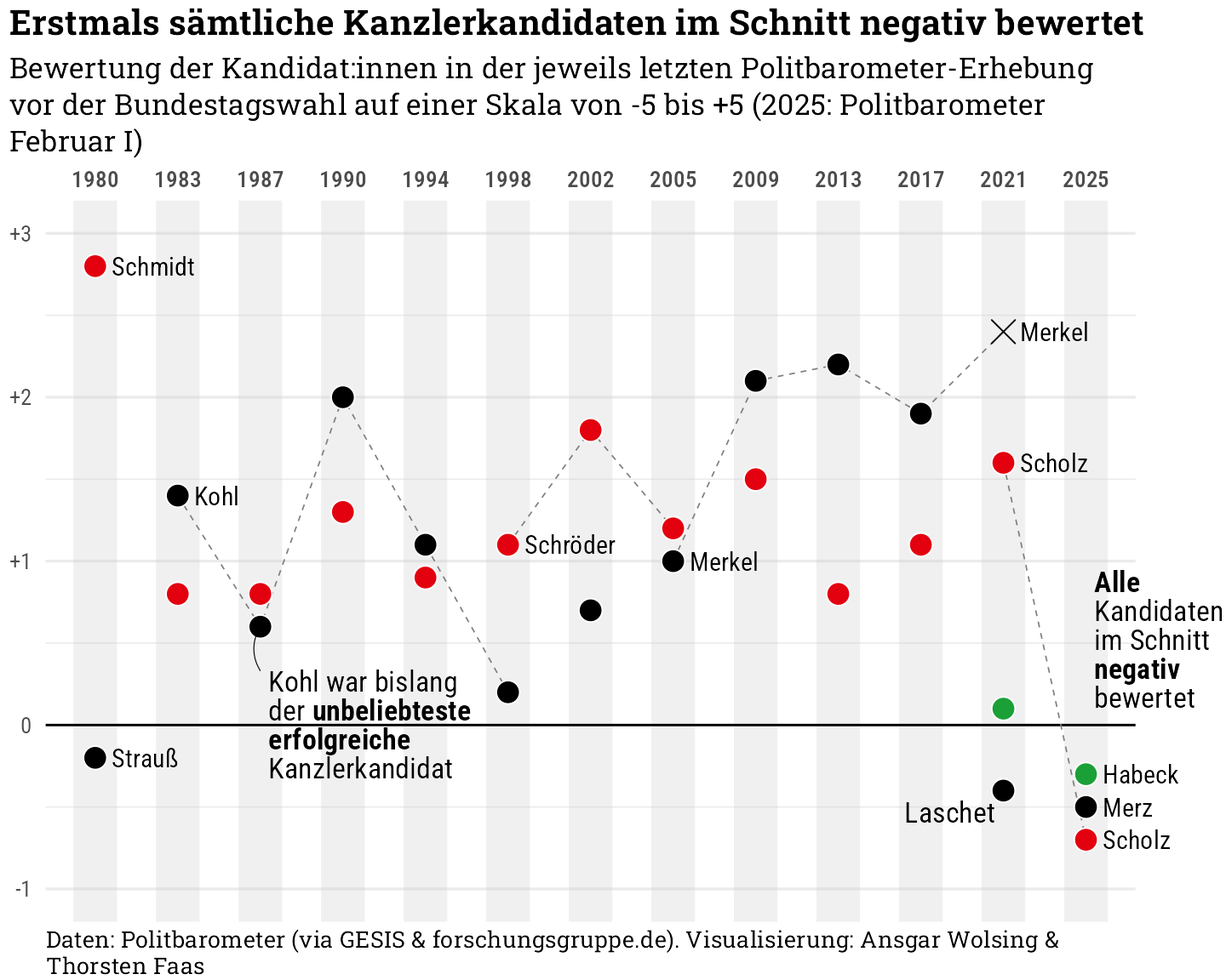
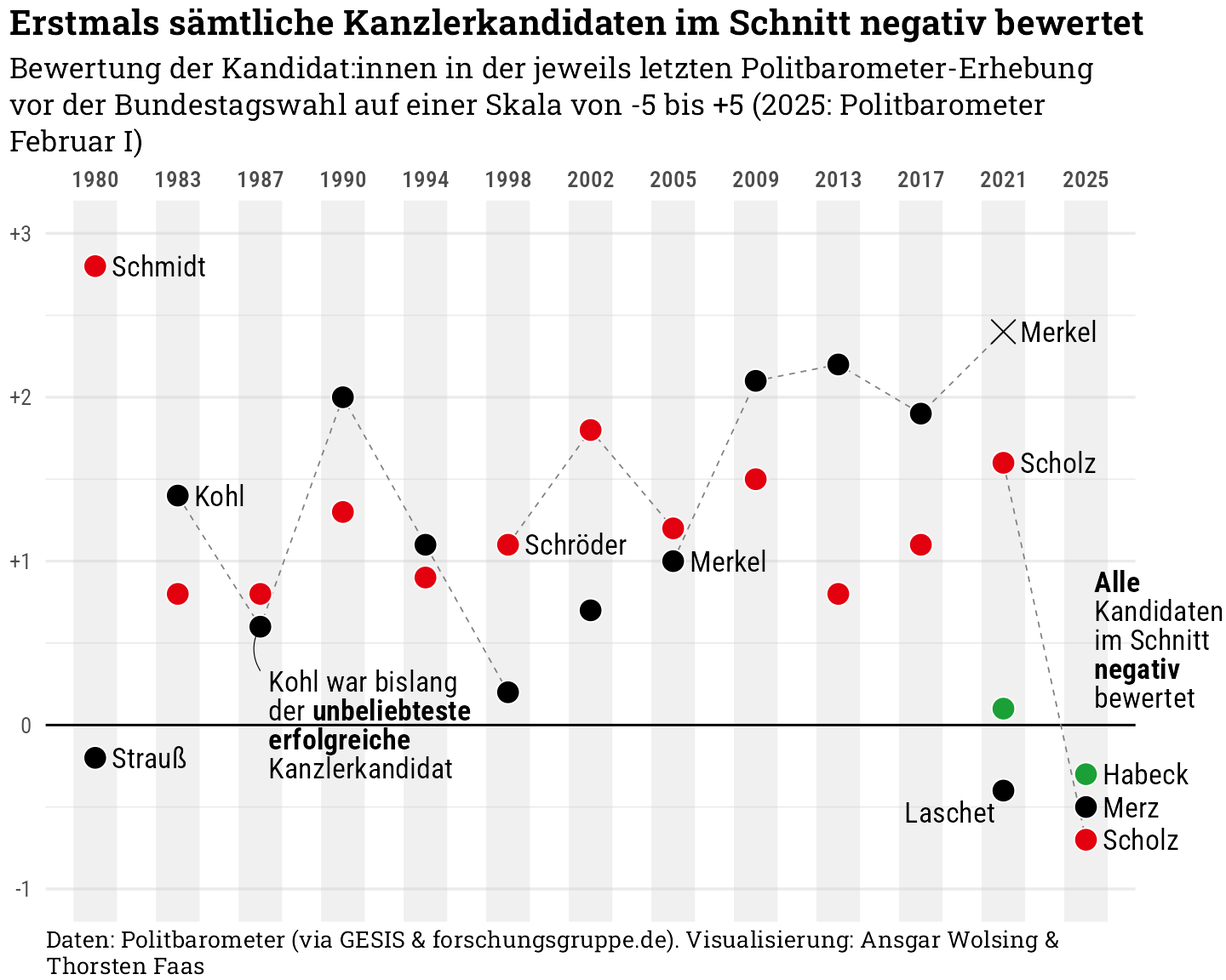
Hinweis auf nicht im Chart erwähnte Kandidaten

diff --git a/06-tv-duell/05-tv-duell.html b/06-tv-duell/05-tv-duell.html
@@ -191,7 +191,7 @@ pre > code.sourceCode > span > a:first-child::before { text-decoration: underlin
 <span id="cb4-27"><a href="#cb4-27" aria-hidden="true" tabindex="-1"></a>                   kandidat <span class="sc">==</span> <span class="st">"Merz"</span></span>
 <span id="cb4-28"><a href="#cb4-28" aria-hidden="true" tabindex="-1"></a>                   ),</span>
 <span id="cb4-29"><a href="#cb4-29" aria-hidden="true" tabindex="-1"></a>    <span class="fu">aes</span>(<span class="at">label =</span> kandidat),</span>
-<span id="cb4-30"><a href="#cb4-30" aria-hidden="true" tabindex="-1"></a>    <span class="at">family =</span> <span class="st">"Roboto Condensed"</span>, <span class="at">size =</span> <span class="dv">4</span>, <span class="at">hjust =</span> <span class="dv">0</span>, <span class="at">nudge_x =</span> <span class="fl">0.2</span></span>
+<span id="cb4-30"><a href="#cb4-30" aria-hidden="true" tabindex="-1"></a>    <span class="at">family =</span> <span class="st">"Roboto Condensed"</span>, <span class="at">size =</span> annotation_size, <span class="at">hjust =</span> <span class="dv">0</span>, <span class="at">nudge_x =</span> <span class="fl">0.2</span></span>
 <span id="cb4-31"><a href="#cb4-31" aria-hidden="true" tabindex="-1"></a>  ) <span class="sc">+</span></span>
 <span id="cb4-32"><a href="#cb4-32" aria-hidden="true" tabindex="-1"></a>  <span class="fu">annotate</span>(</span>
 <span id="cb4-33"><a href="#cb4-33" aria-hidden="true" tabindex="-1"></a>    <span class="st">"richtext"</span>,</span>
@@ -244,70 +244,172 @@ pre > code.sourceCode > span > a:first-child::before { text-decoration: underlin
 </div>
 </div>
 </div>
+<section id="variante-mit-vollständigen-kandidatennennung-in-fußnote" class="level5">
+<h5 class="anchored" data-anchor-id="variante-mit-vollständigen-kandidatennennung-in-fußnote">Variante mit vollständigen Kandidatennennung in Fußnote</h5>
+<div class="cell">
+<details class="code-fold">
+<summary>Code</summary>
+<div class="sourceCode cell-code" id="cb5"><pre class="sourceCode r code-with-copy"><code class="sourceCode r"><span id="cb5-1"><a href="#cb5-1" aria-hidden="true" tabindex="-1"></a>annotation_size <span class="ot">&lt;-</span> <span class="fl">4.5</span></span>
+<span id="cb5-2"><a href="#cb5-2" aria-hidden="true" tabindex="-1"></a></span>
+<span id="cb5-3"><a href="#cb5-3" aria-hidden="true" tabindex="-1"></a>kandidaten_hinweis <span class="ot">&lt;-</span> df_skalo <span class="sc">|&gt;</span> </span>
+<span id="cb5-4"><a href="#cb5-4" aria-hidden="true" tabindex="-1"></a>  <span class="fu">filter</span>(<span class="sc">!</span>kandidat <span class="sc">%in%</span> <span class="fu">c</span>(<span class="st">"Merkel"</span>, <span class="st">"Schröder"</span>, <span class="st">"Schmidt"</span>, <span class="st">"Kohl"</span>, <span class="st">"Merz"</span>, <span class="st">"Scholz"</span>, </span>
+<span id="cb5-5"><a href="#cb5-5" aria-hidden="true" tabindex="-1"></a>                          <span class="st">"Baerbock"</span>, <span class="st">"Habeck"</span>, <span class="st">"Laschet"</span>, <span class="st">"Strauß"</span>)) <span class="sc">|&gt;</span> </span>
+<span id="cb5-6"><a href="#cb5-6" aria-hidden="true" tabindex="-1"></a>  <span class="fu">transmute</span>(<span class="at">wahl_kandidat_label =</span> <span class="fu">paste</span>(wahl, kandidat, <span class="at">sep =</span> <span class="st">" "</span>))</span>
+<span id="cb5-7"><a href="#cb5-7" aria-hidden="true" tabindex="-1"></a></span>
+<span id="cb5-8"><a href="#cb5-8" aria-hidden="true" tabindex="-1"></a>df_skalo <span class="sc">|&gt;</span> </span>
+<span id="cb5-9"><a href="#cb5-9" aria-hidden="true" tabindex="-1"></a>  <span class="fu">filter</span>(<span class="sc">!</span>(wahl <span class="sc">==</span> <span class="dv">2021</span> <span class="sc">&amp;</span> kandidat <span class="sc">==</span> <span class="st">"Merkel"</span>)) <span class="sc">|&gt;</span> </span>
+<span id="cb5-10"><a href="#cb5-10" aria-hidden="true" tabindex="-1"></a>  <span class="fu">mutate</span>(<span class="at">wahl_fct =</span> <span class="fu">factor</span>(wahl)) <span class="sc">|&gt;</span> </span>
+<span id="cb5-11"><a href="#cb5-11" aria-hidden="true" tabindex="-1"></a>  <span class="fu">ggplot</span>(<span class="fu">aes</span>(wahl_fct, bewertung, <span class="at">fill =</span> partei)) <span class="sc">+</span></span>
+<span id="cb5-12"><a href="#cb5-12" aria-hidden="true" tabindex="-1"></a>  <span class="fu">geom_vline</span>(</span>
+<span id="cb5-13"><a href="#cb5-13" aria-hidden="true" tabindex="-1"></a>    <span class="fu">aes</span>(<span class="at">xintercept =</span> wahl_fct), </span>
+<span id="cb5-14"><a href="#cb5-14" aria-hidden="true" tabindex="-1"></a>    <span class="at">linewidth =</span> <span class="dv">9</span>, <span class="at">color =</span> <span class="fu">alpha</span>(<span class="st">"grey80"</span>, <span class="fl">0.3</span>)) <span class="sc">+</span></span>
+<span id="cb5-15"><a href="#cb5-15" aria-hidden="true" tabindex="-1"></a>  <span class="fu">geom_hline</span>(<span class="fu">aes</span>(<span class="at">yintercept =</span> <span class="dv">0</span>), <span class="at">linewidth =</span> <span class="fl">0.5</span>) <span class="sc">+</span></span>
+<span id="cb5-16"><a href="#cb5-16" aria-hidden="true" tabindex="-1"></a>  <span class="fu">geom_line</span>(</span>
+<span id="cb5-17"><a href="#cb5-17" aria-hidden="true" tabindex="-1"></a>    <span class="fu">aes</span>(<span class="at">group =</span> kandidat),</span>
+<span id="cb5-18"><a href="#cb5-18" aria-hidden="true" tabindex="-1"></a>    <span class="at">linetype =</span> <span class="st">"dashed"</span>, <span class="at">linewidth =</span> <span class="fl">0.3</span>, <span class="at">col =</span> <span class="st">"grey50"</span></span>
+<span id="cb5-19"><a href="#cb5-19" aria-hidden="true" tabindex="-1"></a>  ) <span class="sc">+</span></span>
+<span id="cb5-20"><a href="#cb5-20" aria-hidden="true" tabindex="-1"></a>  <span class="fu">geom_point</span>(</span>
+<span id="cb5-21"><a href="#cb5-21" aria-hidden="true" tabindex="-1"></a>    <span class="fu">aes</span>(</span>
+<span id="cb5-22"><a href="#cb5-22" aria-hidden="true" tabindex="-1"></a>      <span class="at">shape =</span> <span class="fu">ifelse</span>(kandidat <span class="sc">==</span> <span class="st">"Merkel"</span> <span class="sc">&amp;</span> wahl <span class="sc">==</span> <span class="st">"2021"</span>, <span class="dv">4</span>, <span class="dv">21</span>),</span>
+<span id="cb5-23"><a href="#cb5-23" aria-hidden="true" tabindex="-1"></a>      <span class="at">col =</span> <span class="fu">ifelse</span>(kandidat <span class="sc">==</span> <span class="st">"Merkel"</span> <span class="sc">&amp;</span> wahl <span class="sc">==</span> <span class="st">"2021"</span>, <span class="st">"black"</span>, <span class="st">"white"</span>)),</span>
+<span id="cb5-24"><a href="#cb5-24" aria-hidden="true" tabindex="-1"></a>    <span class="at">size =</span> annotation_size) <span class="sc">+</span></span>
+<span id="cb5-25"><a href="#cb5-25" aria-hidden="true" tabindex="-1"></a>  <span class="fu">geom_text</span>(</span>
+<span id="cb5-26"><a href="#cb5-26" aria-hidden="true" tabindex="-1"></a>    <span class="at">data =</span> <span class="sc">~</span><span class="fu">filter</span>(.,</span>
+<span id="cb5-27"><a href="#cb5-27" aria-hidden="true" tabindex="-1"></a>                   wahl <span class="sc">%in%</span> <span class="fu">c</span>(<span class="dv">2005</span>, <span class="dv">2021</span>) <span class="sc">&amp;</span> kandidat <span class="sc">==</span> <span class="st">"Merkel"</span> <span class="sc">|</span></span>
+<span id="cb5-28"><a href="#cb5-28" aria-hidden="true" tabindex="-1"></a>                   wahl <span class="sc">==</span> <span class="dv">1980</span> <span class="sc">|</span></span>
+<span id="cb5-29"><a href="#cb5-29" aria-hidden="true" tabindex="-1"></a>                   wahl <span class="sc">==</span> <span class="dv">1983</span> <span class="sc">&amp;</span> kandidat <span class="sc">==</span> <span class="st">"Kohl"</span> <span class="sc">|</span></span>
+<span id="cb5-30"><a href="#cb5-30" aria-hidden="true" tabindex="-1"></a>                   wahl <span class="sc">==</span> <span class="dv">1998</span> <span class="sc">&amp;</span> kandidat <span class="sc">==</span> <span class="st">"Schröder"</span> <span class="sc">|</span></span>
+<span id="cb5-31"><a href="#cb5-31" aria-hidden="true" tabindex="-1"></a>                   kandidat <span class="sc">==</span> <span class="st">"Scholz"</span> <span class="sc">|</span></span>
+<span id="cb5-32"><a href="#cb5-32" aria-hidden="true" tabindex="-1"></a>                   kandidat <span class="sc">==</span> <span class="st">"Habeck"</span> <span class="sc">|</span></span>
+<span id="cb5-33"><a href="#cb5-33" aria-hidden="true" tabindex="-1"></a>                   kandidat <span class="sc">==</span> <span class="st">"Merz"</span></span>
+<span id="cb5-34"><a href="#cb5-34" aria-hidden="true" tabindex="-1"></a>                   ),</span>
+<span id="cb5-35"><a href="#cb5-35" aria-hidden="true" tabindex="-1"></a>    <span class="fu">aes</span>(<span class="at">label =</span> kandidat),</span>
+<span id="cb5-36"><a href="#cb5-36" aria-hidden="true" tabindex="-1"></a>    <span class="at">family =</span> <span class="st">"Roboto Condensed"</span>, <span class="at">size =</span> annotation_size, <span class="at">hjust =</span> <span class="dv">0</span>, <span class="at">nudge_x =</span> <span class="fl">0.2</span></span>
+<span id="cb5-37"><a href="#cb5-37" aria-hidden="true" tabindex="-1"></a>  ) <span class="sc">+</span></span>
+<span id="cb5-38"><a href="#cb5-38" aria-hidden="true" tabindex="-1"></a>  <span class="fu">annotate</span>(</span>
+<span id="cb5-39"><a href="#cb5-39" aria-hidden="true" tabindex="-1"></a>    <span class="st">"richtext"</span>,</span>
+<span id="cb5-40"><a href="#cb5-40" aria-hidden="true" tabindex="-1"></a>    <span class="at">x =</span> <span class="fu">c</span>(<span class="st">"1987"</span>, <span class="st">"2021"</span>, <span class="st">"2025"</span>, <span class="st">"2021"</span>), </span>
+<span id="cb5-41"><a href="#cb5-41" aria-hidden="true" tabindex="-1"></a>    <span class="at">y =</span> <span class="fu">c</span>(<span class="fl">0.34</span>, <span class="sc">-</span><span class="fl">0.55</span>, <span class="fl">0.5</span>, <span class="fl">0.2</span>), </span>
+<span id="cb5-42"><a href="#cb5-42" aria-hidden="true" tabindex="-1"></a>    <span class="at">label =</span> <span class="fu">c</span>(</span>
+<span id="cb5-43"><a href="#cb5-43" aria-hidden="true" tabindex="-1"></a>      <span class="st">"Kohl war bislang&lt;br&gt;der **unbeliebteste&lt;br&gt;erfolgreiche**&lt;br&gt;Kanzlerkandidat"</span>,</span>
+<span id="cb5-44"><a href="#cb5-44" aria-hidden="true" tabindex="-1"></a>      <span class="st">"Laschet"</span>,</span>
+<span id="cb5-45"><a href="#cb5-45" aria-hidden="true" tabindex="-1"></a>      <span class="co"># "**2025 alle**&lt;br&gt;Kandidaten&lt;br&gt;im Schnitt&lt;br&gt;negativ&lt;br&gt;bewertet",</span></span>
+<span id="cb5-46"><a href="#cb5-46" aria-hidden="true" tabindex="-1"></a>      <span class="st">""</span>,</span>
+<span id="cb5-47"><a href="#cb5-47" aria-hidden="true" tabindex="-1"></a>      <span class="st">"Baerbock"</span>),</span>
+<span id="cb5-48"><a href="#cb5-48" aria-hidden="true" tabindex="-1"></a>    <span class="at">vjust =</span> <span class="fu">c</span>(<span class="dv">1</span>, <span class="fl">0.5</span>, <span class="fl">0.5</span>, <span class="fl">0.5</span>),</span>
+<span id="cb5-49"><a href="#cb5-49" aria-hidden="true" tabindex="-1"></a>    <span class="at">hjust =</span> <span class="fu">c</span>(<span class="dv">0</span>, <span class="dv">1</span>, <span class="dv">0</span>, <span class="dv">1</span>),</span>
+<span id="cb5-50"><a href="#cb5-50" aria-hidden="true" tabindex="-1"></a>    <span class="at">fill =</span> <span class="cn">NA</span>, <span class="at">label.size =</span> <span class="dv">0</span>, <span class="at">family =</span> <span class="st">"Roboto Condensed"</span>, <span class="at">size =</span> annotation_size,</span>
+<span id="cb5-51"><a href="#cb5-51" aria-hidden="true" tabindex="-1"></a>    <span class="at">lineheight =</span> <span class="dv">1</span></span>
+<span id="cb5-52"><a href="#cb5-52" aria-hidden="true" tabindex="-1"></a>  ) <span class="sc">+</span></span>
+<span id="cb5-53"><a href="#cb5-53" aria-hidden="true" tabindex="-1"></a>  <span class="fu">annotate</span>(</span>
+<span id="cb5-54"><a href="#cb5-54" aria-hidden="true" tabindex="-1"></a>    GeomCurve,</span>
+<span id="cb5-55"><a href="#cb5-55" aria-hidden="true" tabindex="-1"></a>    <span class="at">x =</span> <span class="fu">c</span>(<span class="st">"1987"</span>),</span>
+<span id="cb5-56"><a href="#cb5-56" aria-hidden="true" tabindex="-1"></a>    <span class="at">xend =</span> <span class="fu">c</span>(<span class="st">"1987"</span>),</span>
+<span id="cb5-57"><a href="#cb5-57" aria-hidden="true" tabindex="-1"></a>    <span class="at">y =</span> <span class="fu">c</span>(<span class="fl">0.31</span>),</span>
+<span id="cb5-58"><a href="#cb5-58" aria-hidden="true" tabindex="-1"></a>    <span class="at">yend =</span> <span class="fu">c</span>(<span class="fl">0.6</span>),</span>
+<span id="cb5-59"><a href="#cb5-59" aria-hidden="true" tabindex="-1"></a>    <span class="at">curvature =</span> <span class="sc">-</span><span class="fl">0.3</span>, <span class="at">linewidth =</span> <span class="fl">0.2</span></span>
+<span id="cb5-60"><a href="#cb5-60" aria-hidden="true" tabindex="-1"></a>  ) <span class="sc">+</span></span>
+<span id="cb5-61"><a href="#cb5-61" aria-hidden="true" tabindex="-1"></a>  <span class="fu">scale_x_discrete</span>(<span class="at">position =</span> <span class="st">"top"</span>) <span class="sc">+</span></span>
+<span id="cb5-62"><a href="#cb5-62" aria-hidden="true" tabindex="-1"></a>  <span class="fu">scale_y_continuous</span>(<span class="at">labels =</span> scales<span class="sc">::</span><span class="fu">label_number</span>(<span class="at">style_positive =</span> <span class="st">"plus"</span>)) <span class="sc">+</span></span>
+<span id="cb5-63"><a href="#cb5-63" aria-hidden="true" tabindex="-1"></a>  <span class="fu">scale_fill_manual</span>(<span class="at">values =</span> party_pal) <span class="sc">+</span></span>
+<span id="cb5-64"><a href="#cb5-64" aria-hidden="true" tabindex="-1"></a>  <span class="fu">scale_shape_identity</span>() <span class="sc">+</span></span>
+<span id="cb5-65"><a href="#cb5-65" aria-hidden="true" tabindex="-1"></a>  <span class="fu">scale_color_identity</span>() <span class="sc">+</span></span>
+<span id="cb5-66"><a href="#cb5-66" aria-hidden="true" tabindex="-1"></a>  <span class="fu">coord_cartesian</span>(<span class="at">ylim =</span> <span class="fu">c</span>(<span class="sc">-</span><span class="dv">1</span>, <span class="dv">3</span>), <span class="at">clip =</span> <span class="st">"off"</span>) <span class="sc">+</span></span>
+<span id="cb5-67"><a href="#cb5-67" aria-hidden="true" tabindex="-1"></a>  <span class="fu">guides</span>(<span class="at">fill =</span> <span class="st">"none"</span>) <span class="sc">+</span></span>
+<span id="cb5-68"><a href="#cb5-68" aria-hidden="true" tabindex="-1"></a>  <span class="fu">labs</span>(</span>
+<span id="cb5-69"><a href="#cb5-69" aria-hidden="true" tabindex="-1"></a>    <span class="at">title =</span> <span class="st">"2025 erstmals sämtliche Kanzlerkandidaten negativ bewertet"</span>,</span>
+<span id="cb5-70"><a href="#cb5-70" aria-hidden="true" tabindex="-1"></a>    <span class="at">subtitle =</span> <span class="st">"Bewertung der Kandidat:innen in der jeweils letzten Politbarometer-Erhebung vor der Bundestagswahl auf einer Skala von -5 bis +5 (2025: Politbarometer Februar I)"</span>,</span>
+<span id="cb5-71"><a href="#cb5-71" aria-hidden="true" tabindex="-1"></a>    <span class="at">caption =</span> <span class="fu">paste</span>(</span>
+<span id="cb5-72"><a href="#cb5-72" aria-hidden="true" tabindex="-1"></a>      <span class="fu">paste</span>(</span>
+<span id="cb5-73"><a href="#cb5-73" aria-hidden="true" tabindex="-1"></a>        <span class="st">"Nicht genannte Kandidaten: "</span>,</span>
+<span id="cb5-74"><a href="#cb5-74" aria-hidden="true" tabindex="-1"></a>       <span class="fu">paste</span>(kandidaten_hinweis<span class="sc">$</span>wahl_kandidat_label, <span class="at">collapse =</span> <span class="st">", "</span>)),</span>
+<span id="cb5-75"><a href="#cb5-75" aria-hidden="true" tabindex="-1"></a>      <span class="st">"Daten: Politbarometer (via GESIS &amp; forschungsgruppe.de).</span></span>
+<span id="cb5-76"><a href="#cb5-76" aria-hidden="true" tabindex="-1"></a><span class="st">        Visualisierung: Ansgar Wolsing &amp; Thorsten Faas"</span>, <span class="at">sep =</span> <span class="st">"&lt;br&gt;&lt;br&gt;"</span></span>
+<span id="cb5-77"><a href="#cb5-77" aria-hidden="true" tabindex="-1"></a>    ),</span>
+<span id="cb5-78"><a href="#cb5-78" aria-hidden="true" tabindex="-1"></a>    <span class="at">x =</span> <span class="cn">NULL</span>, <span class="at">y =</span> <span class="cn">NULL</span> <span class="co"># "Bewertung"</span></span>
+<span id="cb5-79"><a href="#cb5-79" aria-hidden="true" tabindex="-1"></a>  ) <span class="sc">+</span></span>
+<span id="cb5-80"><a href="#cb5-80" aria-hidden="true" tabindex="-1"></a>  <span class="fu">theme</span>(</span>
+<span id="cb5-81"><a href="#cb5-81" aria-hidden="true" tabindex="-1"></a>    <span class="at">panel.grid.major.x =</span> <span class="fu">element_blank</span>(),</span>
+<span id="cb5-82"><a href="#cb5-82" aria-hidden="true" tabindex="-1"></a>    <span class="at">panel.grid.minor.x =</span> <span class="fu">element_blank</span>(),</span>
+<span id="cb5-83"><a href="#cb5-83" aria-hidden="true" tabindex="-1"></a>    <span class="at">axis.text.x.top =</span> <span class="fu">element_text</span>(<span class="at">family =</span> <span class="st">"Roboto Condensed SemiBold"</span>),</span>
+<span id="cb5-84"><a href="#cb5-84" aria-hidden="true" tabindex="-1"></a>    <span class="at">plot.subtitle =</span> <span class="fu">element_textbox</span>(<span class="at">margin =</span> <span class="fu">margin</span>(<span class="at">b =</span> <span class="dv">20</span>)),</span>
+<span id="cb5-85"><a href="#cb5-85" aria-hidden="true" tabindex="-1"></a>    <span class="at">plot.margin =</span> <span class="fu">margin</span>(<span class="at">t =</span> <span class="dv">4</span>, <span class="at">r =</span> <span class="dv">24</span>, <span class="at">b =</span> <span class="dv">4</span>, <span class="at">l =</span> <span class="dv">4</span>)</span>
+<span id="cb5-86"><a href="#cb5-86" aria-hidden="true" tabindex="-1"></a>  )</span></code><button title="Copy to Clipboard" class="code-copy-button"><i class="bi"></i></button></pre></div>
+</details>
+<div class="cell-output-display">
+<div>
+<figure class="figure">
+<p><img src="05-tv-duell_files/figure-html/plot-skalo-3-1.png" class="img-fluid figure-img" width="720"></p>
+</figure>
+</div>
+</div>
+</div>
+</section>
 </section>
 <section id="zuschauerzahlen-tv-duelle" class="level2">
 <h2 class="anchored" data-anchor-id="zuschauerzahlen-tv-duelle">Zuschauerzahlen TV-Duelle</h2>
 <div class="cell">
 <details class="code-fold">
 <summary>Code</summary>
-<div class="sourceCode cell-code" id="cb5"><pre class="sourceCode r code-with-copy"><code class="sourceCode r"><span id="cb5-1"><a href="#cb5-1" aria-hidden="true" tabindex="-1"></a>df_zuschauer <span class="ot">&lt;-</span> <span class="fu">read_tsv</span>(<span class="fu">here</span>(<span class="st">"data"</span>, <span class="st">"TV-Duelle"</span>, <span class="st">"tv-duelle-quoten.tsv"</span>))</span></code><button title="Copy to Clipboard" class="code-copy-button"><i class="bi"></i></button></pre></div>
+<div class="sourceCode cell-code" id="cb6"><pre class="sourceCode r code-with-copy"><code class="sourceCode r"><span id="cb6-1"><a href="#cb6-1" aria-hidden="true" tabindex="-1"></a>df_zuschauer <span class="ot">&lt;-</span> <span class="fu">read_tsv</span>(<span class="fu">here</span>(<span class="st">"data"</span>, <span class="st">"TV-Duelle"</span>, <span class="st">"tv-duelle-quoten.tsv"</span>))</span></code><button title="Copy to Clipboard" class="code-copy-button"><i class="bi"></i></button></pre></div>
 </details>
 </div>
 <div class="cell">
 <details class="code-fold">
 <summary>Code</summary>
-<div class="sourceCode cell-code" id="cb6"><pre class="sourceCode r code-with-copy"><code class="sourceCode r"><span id="cb6-1"><a href="#cb6-1" aria-hidden="true" tabindex="-1"></a>btw_kandidaten <span class="ot">&lt;-</span> <span class="fu">tribble</span>(</span>
-<span id="cb6-2"><a href="#cb6-2" aria-hidden="true" tabindex="-1"></a>  <span class="sc">~</span>btw, <span class="sc">~</span>kandidaten,</span>
-<span id="cb6-3"><a href="#cb6-3" aria-hidden="true" tabindex="-1"></a>  <span class="dv">2002</span>, <span class="st">"Schröder/Stoiber"</span>,</span>
-<span id="cb6-4"><a href="#cb6-4" aria-hidden="true" tabindex="-1"></a>  <span class="dv">2005</span>, <span class="st">"Schröder/Merkel"</span>,</span>
-<span id="cb6-5"><a href="#cb6-5" aria-hidden="true" tabindex="-1"></a>  <span class="dv">2009</span>, <span class="st">"Merkel/Steinmeier"</span>,</span>
-<span id="cb6-6"><a href="#cb6-6" aria-hidden="true" tabindex="-1"></a>  <span class="dv">2013</span>, <span class="st">"Merkel/Steinbrück"</span>,</span>
-<span id="cb6-7"><a href="#cb6-7" aria-hidden="true" tabindex="-1"></a>  <span class="dv">2017</span>, <span class="st">"Merkel/Schulz"</span>,</span>
-<span id="cb6-8"><a href="#cb6-8" aria-hidden="true" tabindex="-1"></a>  <span class="dv">2021</span>, <span class="st">"Laschet/Scholz/Baerbock"</span></span>
-<span id="cb6-9"><a href="#cb6-9" aria-hidden="true" tabindex="-1"></a>)</span>
-<span id="cb6-10"><a href="#cb6-10" aria-hidden="true" tabindex="-1"></a></span>
-<span id="cb6-11"><a href="#cb6-11" aria-hidden="true" tabindex="-1"></a>df_zuschauer <span class="sc">|&gt;</span> </span>
-<span id="cb6-12"><a href="#cb6-12" aria-hidden="true" tabindex="-1"></a>  <span class="fu">inner_join</span>(btw_kandidaten, <span class="at">by =</span> <span class="fu">join_by</span>(btw)) <span class="sc">|&gt;</span> </span>
-<span id="cb6-13"><a href="#cb6-13" aria-hidden="true" tabindex="-1"></a>  <span class="co"># mutate(</span></span>
-<span id="cb6-14"><a href="#cb6-14" aria-hidden="true" tabindex="-1"></a>  <span class="co">#   btw_kandidaten_label = paste(btw, kandidaten, sep = "\n"),</span></span>
-<span id="cb6-15"><a href="#cb6-15" aria-hidden="true" tabindex="-1"></a>  <span class="co">#   btw_kandidaten_label = ifelse(</span></span>
-<span id="cb6-16"><a href="#cb6-16" aria-hidden="true" tabindex="-1"></a>  <span class="co">#     btw %in% 2005:2017,</span></span>
-<span id="cb6-17"><a href="#cb6-17" aria-hidden="true" tabindex="-1"></a>  <span class="co">#     str_wrap(btw_kandidaten_label, 10, whitespace_only = FALSE),</span></span>
-<span id="cb6-18"><a href="#cb6-18" aria-hidden="true" tabindex="-1"></a>  <span class="co">#     btw_kandidaten_label)) |&gt; </span></span>
-<span id="cb6-19"><a href="#cb6-19" aria-hidden="true" tabindex="-1"></a>    <span class="fu">mutate</span>(</span>
-<span id="cb6-20"><a href="#cb6-20" aria-hidden="true" tabindex="-1"></a>      <span class="at">kandidate_label =</span> <span class="fu">ifelse</span>(</span>
-<span id="cb6-21"><a href="#cb6-21" aria-hidden="true" tabindex="-1"></a>         btw <span class="sc">%in%</span> <span class="dv">2005</span><span class="sc">:</span><span class="dv">2017</span>,</span>
-<span id="cb6-22"><a href="#cb6-22" aria-hidden="true" tabindex="-1"></a>         <span class="fu">str_replace</span>(kandidaten, <span class="st">"/"</span>, <span class="st">"/&lt;br&gt;"</span>),</span>
-<span id="cb6-23"><a href="#cb6-23" aria-hidden="true" tabindex="-1"></a>         kandidaten</span>
-<span id="cb6-24"><a href="#cb6-24" aria-hidden="true" tabindex="-1"></a>      ),</span>
-<span id="cb6-25"><a href="#cb6-25" aria-hidden="true" tabindex="-1"></a>    <span class="at">btw_kandidaten_label =</span> <span class="fu">sprintf</span>(<span class="st">"&lt;b style='font-size:12pt'&gt;%s&lt;/b&gt;&lt;br&gt;%s"</span>, btw, kandidate_label)</span>
-<span id="cb6-26"><a href="#cb6-26" aria-hidden="true" tabindex="-1"></a>    ) <span class="sc">|&gt;</span> </span>
-<span id="cb6-27"><a href="#cb6-27" aria-hidden="true" tabindex="-1"></a>  <span class="fu">ggplot</span>(<span class="fu">aes</span>(sendungsnummer, zuschauer)) <span class="sc">+</span></span>
-<span id="cb6-28"><a href="#cb6-28" aria-hidden="true" tabindex="-1"></a>  <span class="fu">geom_col</span>(</span>
-<span id="cb6-29"><a href="#cb6-29" aria-hidden="true" tabindex="-1"></a>    <span class="at">fill =</span> color_pal[<span class="dv">1</span>]</span>
-<span id="cb6-30"><a href="#cb6-30" aria-hidden="true" tabindex="-1"></a>  ) <span class="sc">+</span></span>
-<span id="cb6-31"><a href="#cb6-31" aria-hidden="true" tabindex="-1"></a>  <span class="fu">geom_text</span>(</span>
-<span id="cb6-32"><a href="#cb6-32" aria-hidden="true" tabindex="-1"></a>    <span class="fu">aes</span>(<span class="at">label =</span> scales<span class="sc">::</span><span class="fu">number</span>(zuschauer, <span class="at">accuracy =</span> <span class="fl">0.1</span>, <span class="at">decimal.mark =</span> <span class="st">","</span>)),</span>
-<span id="cb6-33"><a href="#cb6-33" aria-hidden="true" tabindex="-1"></a>    <span class="at">vjust =</span> <span class="dv">1</span>, <span class="at">nudge_y =</span> <span class="sc">-</span><span class="fl">0.5</span>,</span>
-<span id="cb6-34"><a href="#cb6-34" aria-hidden="true" tabindex="-1"></a>    <span class="at">family =</span> <span class="st">"Roboto Condensed SemiBold"</span>, <span class="at">col =</span> <span class="st">"white"</span></span>
-<span id="cb6-35"><a href="#cb6-35" aria-hidden="true" tabindex="-1"></a>  ) <span class="sc">+</span></span>
-<span id="cb6-36"><a href="#cb6-36" aria-hidden="true" tabindex="-1"></a>  <span class="fu">geom_hline</span>(<span class="fu">aes</span>(<span class="at">yintercept =</span> <span class="dv">0</span>)) <span class="sc">+</span></span>
-<span id="cb6-37"><a href="#cb6-37" aria-hidden="true" tabindex="-1"></a>  <span class="fu">facet_grid</span>(<span class="at">cols =</span> <span class="fu">vars</span>(btw_kandidaten_label), <span class="at">switch =</span> <span class="st">"x"</span>, <span class="at">space =</span> <span class="st">"free_x"</span>, <span class="at">scale =</span> <span class="st">"free_x"</span>) <span class="sc">+</span></span>
-<span id="cb6-38"><a href="#cb6-38" aria-hidden="true" tabindex="-1"></a>  <span class="fu">labs</span>(</span>
-<span id="cb6-39"><a href="#cb6-39" aria-hidden="true" tabindex="-1"></a>    <span class="at">title =</span> <span class="st">"Zuschauerinteresse an den TV-Duellen im Bundestagswahlkampf"</span>,</span>
-<span id="cb6-40"><a href="#cb6-40" aria-hidden="true" tabindex="-1"></a>    <span class="at">subtitle =</span> <span class="st">"Zuschauer in Mio."</span></span>
-<span id="cb6-41"><a href="#cb6-41" aria-hidden="true" tabindex="-1"></a>  ) <span class="sc">+</span></span>
-<span id="cb6-42"><a href="#cb6-42" aria-hidden="true" tabindex="-1"></a>  <span class="fu">theme</span>(</span>
-<span id="cb6-43"><a href="#cb6-43" aria-hidden="true" tabindex="-1"></a>    <span class="at">axis.text =</span> <span class="fu">element_blank</span>(),</span>
-<span id="cb6-44"><a href="#cb6-44" aria-hidden="true" tabindex="-1"></a>    <span class="at">axis.text.x =</span> <span class="fu">element_blank</span>(),</span>
-<span id="cb6-45"><a href="#cb6-45" aria-hidden="true" tabindex="-1"></a>    <span class="at">axis.title =</span> <span class="fu">element_blank</span>(),</span>
-<span id="cb6-46"><a href="#cb6-46" aria-hidden="true" tabindex="-1"></a>    <span class="at">panel.grid =</span> <span class="fu">element_blank</span>(),</span>
-<span id="cb6-47"><a href="#cb6-47" aria-hidden="true" tabindex="-1"></a>    <span class="at">panel.spacing.x =</span> <span class="fu">unit</span>(<span class="dv">5</span>, <span class="st">"mm"</span>),</span>
-<span id="cb6-48"><a href="#cb6-48" aria-hidden="true" tabindex="-1"></a>    <span class="at">strip.text.x.bottom =</span> <span class="fu">element_markdown</span>(</span>
-<span id="cb6-49"><a href="#cb6-49" aria-hidden="true" tabindex="-1"></a>      <span class="at">family =</span> <span class="st">"Roboto Condensed"</span>,</span>
-<span id="cb6-50"><a href="#cb6-50" aria-hidden="true" tabindex="-1"></a>      <span class="at">vjust =</span> <span class="dv">1</span>,</span>
-<span id="cb6-51"><a href="#cb6-51" aria-hidden="true" tabindex="-1"></a>      <span class="at">margin =</span> <span class="fu">margin</span>(<span class="at">t =</span> <span class="dv">0</span>))</span>
-<span id="cb6-52"><a href="#cb6-52" aria-hidden="true" tabindex="-1"></a>  )</span></code><button title="Copy to Clipboard" class="code-copy-button"><i class="bi"></i></button></pre></div>
+<div class="sourceCode cell-code" id="cb7"><pre class="sourceCode r code-with-copy"><code class="sourceCode r"><span id="cb7-1"><a href="#cb7-1" aria-hidden="true" tabindex="-1"></a>btw_kandidaten <span class="ot">&lt;-</span> <span class="fu">tribble</span>(</span>
+<span id="cb7-2"><a href="#cb7-2" aria-hidden="true" tabindex="-1"></a>  <span class="sc">~</span>btw, <span class="sc">~</span>kandidaten,</span>
+<span id="cb7-3"><a href="#cb7-3" aria-hidden="true" tabindex="-1"></a>  <span class="dv">2002</span>, <span class="st">"Schröder/Stoiber"</span>,</span>
+<span id="cb7-4"><a href="#cb7-4" aria-hidden="true" tabindex="-1"></a>  <span class="dv">2005</span>, <span class="st">"Schröder/Merkel"</span>,</span>
+<span id="cb7-5"><a href="#cb7-5" aria-hidden="true" tabindex="-1"></a>  <span class="dv">2009</span>, <span class="st">"Merkel/Steinmeier"</span>,</span>
+<span id="cb7-6"><a href="#cb7-6" aria-hidden="true" tabindex="-1"></a>  <span class="dv">2013</span>, <span class="st">"Merkel/Steinbrück"</span>,</span>
+<span id="cb7-7"><a href="#cb7-7" aria-hidden="true" tabindex="-1"></a>  <span class="dv">2017</span>, <span class="st">"Merkel/Schulz"</span>,</span>
+<span id="cb7-8"><a href="#cb7-8" aria-hidden="true" tabindex="-1"></a>  <span class="dv">2021</span>, <span class="st">"Laschet/Scholz/Baerbock"</span></span>
+<span id="cb7-9"><a href="#cb7-9" aria-hidden="true" tabindex="-1"></a>)</span>
+<span id="cb7-10"><a href="#cb7-10" aria-hidden="true" tabindex="-1"></a></span>
+<span id="cb7-11"><a href="#cb7-11" aria-hidden="true" tabindex="-1"></a>df_zuschauer <span class="sc">|&gt;</span> </span>
+<span id="cb7-12"><a href="#cb7-12" aria-hidden="true" tabindex="-1"></a>  <span class="fu">inner_join</span>(btw_kandidaten, <span class="at">by =</span> <span class="fu">join_by</span>(btw)) <span class="sc">|&gt;</span> </span>
+<span id="cb7-13"><a href="#cb7-13" aria-hidden="true" tabindex="-1"></a>  <span class="co"># mutate(</span></span>
+<span id="cb7-14"><a href="#cb7-14" aria-hidden="true" tabindex="-1"></a>  <span class="co">#   btw_kandidaten_label = paste(btw, kandidaten, sep = "\n"),</span></span>
+<span id="cb7-15"><a href="#cb7-15" aria-hidden="true" tabindex="-1"></a>  <span class="co">#   btw_kandidaten_label = ifelse(</span></span>
+<span id="cb7-16"><a href="#cb7-16" aria-hidden="true" tabindex="-1"></a>  <span class="co">#     btw %in% 2005:2017,</span></span>
+<span id="cb7-17"><a href="#cb7-17" aria-hidden="true" tabindex="-1"></a>  <span class="co">#     str_wrap(btw_kandidaten_label, 10, whitespace_only = FALSE),</span></span>
+<span id="cb7-18"><a href="#cb7-18" aria-hidden="true" tabindex="-1"></a>  <span class="co">#     btw_kandidaten_label)) |&gt; </span></span>
+<span id="cb7-19"><a href="#cb7-19" aria-hidden="true" tabindex="-1"></a>    <span class="fu">mutate</span>(</span>
+<span id="cb7-20"><a href="#cb7-20" aria-hidden="true" tabindex="-1"></a>      <span class="at">kandidate_label =</span> <span class="fu">ifelse</span>(</span>
+<span id="cb7-21"><a href="#cb7-21" aria-hidden="true" tabindex="-1"></a>         btw <span class="sc">%in%</span> <span class="dv">2005</span><span class="sc">:</span><span class="dv">2017</span>,</span>
+<span id="cb7-22"><a href="#cb7-22" aria-hidden="true" tabindex="-1"></a>         <span class="fu">str_replace</span>(kandidaten, <span class="st">"/"</span>, <span class="st">"/&lt;br&gt;"</span>),</span>
+<span id="cb7-23"><a href="#cb7-23" aria-hidden="true" tabindex="-1"></a>         kandidaten</span>
+<span id="cb7-24"><a href="#cb7-24" aria-hidden="true" tabindex="-1"></a>      ),</span>
+<span id="cb7-25"><a href="#cb7-25" aria-hidden="true" tabindex="-1"></a>    <span class="at">btw_kandidaten_label =</span> <span class="fu">sprintf</span>(<span class="st">"&lt;b style='font-size:12pt'&gt;%s&lt;/b&gt;&lt;br&gt;%s"</span>, btw, kandidate_label)</span>
+<span id="cb7-26"><a href="#cb7-26" aria-hidden="true" tabindex="-1"></a>    ) <span class="sc">|&gt;</span> </span>
+<span id="cb7-27"><a href="#cb7-27" aria-hidden="true" tabindex="-1"></a>  <span class="fu">ggplot</span>(<span class="fu">aes</span>(sendungsnummer, zuschauer)) <span class="sc">+</span></span>
+<span id="cb7-28"><a href="#cb7-28" aria-hidden="true" tabindex="-1"></a>  <span class="fu">geom_col</span>(</span>
+<span id="cb7-29"><a href="#cb7-29" aria-hidden="true" tabindex="-1"></a>    <span class="at">fill =</span> color_pal[<span class="dv">1</span>]</span>
+<span id="cb7-30"><a href="#cb7-30" aria-hidden="true" tabindex="-1"></a>  ) <span class="sc">+</span></span>
+<span id="cb7-31"><a href="#cb7-31" aria-hidden="true" tabindex="-1"></a>  <span class="fu">geom_text</span>(</span>
+<span id="cb7-32"><a href="#cb7-32" aria-hidden="true" tabindex="-1"></a>    <span class="fu">aes</span>(<span class="at">label =</span> scales<span class="sc">::</span><span class="fu">number</span>(zuschauer, <span class="at">accuracy =</span> <span class="fl">0.1</span>, <span class="at">decimal.mark =</span> <span class="st">","</span>)),</span>
+<span id="cb7-33"><a href="#cb7-33" aria-hidden="true" tabindex="-1"></a>    <span class="at">vjust =</span> <span class="dv">1</span>, <span class="at">nudge_y =</span> <span class="sc">-</span><span class="fl">0.5</span>,</span>
+<span id="cb7-34"><a href="#cb7-34" aria-hidden="true" tabindex="-1"></a>    <span class="at">family =</span> <span class="st">"Roboto Condensed SemiBold"</span>, <span class="at">col =</span> <span class="st">"white"</span></span>
+<span id="cb7-35"><a href="#cb7-35" aria-hidden="true" tabindex="-1"></a>  ) <span class="sc">+</span></span>
+<span id="cb7-36"><a href="#cb7-36" aria-hidden="true" tabindex="-1"></a>  <span class="fu">geom_hline</span>(<span class="fu">aes</span>(<span class="at">yintercept =</span> <span class="dv">0</span>)) <span class="sc">+</span></span>
+<span id="cb7-37"><a href="#cb7-37" aria-hidden="true" tabindex="-1"></a>  <span class="fu">facet_grid</span>(<span class="at">cols =</span> <span class="fu">vars</span>(btw_kandidaten_label), <span class="at">switch =</span> <span class="st">"x"</span>, <span class="at">space =</span> <span class="st">"free_x"</span>, <span class="at">scale =</span> <span class="st">"free_x"</span>) <span class="sc">+</span></span>
+<span id="cb7-38"><a href="#cb7-38" aria-hidden="true" tabindex="-1"></a>  <span class="fu">labs</span>(</span>
+<span id="cb7-39"><a href="#cb7-39" aria-hidden="true" tabindex="-1"></a>    <span class="at">title =</span> <span class="st">"Zuschauerinteresse an den TV-Duellen im Bundestagswahlkampf"</span>,</span>
+<span id="cb7-40"><a href="#cb7-40" aria-hidden="true" tabindex="-1"></a>    <span class="at">subtitle =</span> <span class="st">"Zuschauer in Mio."</span>,</span>
+<span id="cb7-41"><a href="#cb7-41" aria-hidden="true" tabindex="-1"></a>    <span class="at">caption =</span> <span class="st">"Daten: Wikipedia, eigene Recherche. Visualisierung: Ansgar Wolsing &amp; Thorsten Faas"</span>,</span>
+<span id="cb7-42"><a href="#cb7-42" aria-hidden="true" tabindex="-1"></a>  ) <span class="sc">+</span></span>
+<span id="cb7-43"><a href="#cb7-43" aria-hidden="true" tabindex="-1"></a>  <span class="fu">theme</span>(</span>
+<span id="cb7-44"><a href="#cb7-44" aria-hidden="true" tabindex="-1"></a>    <span class="at">axis.text =</span> <span class="fu">element_blank</span>(),</span>
+<span id="cb7-45"><a href="#cb7-45" aria-hidden="true" tabindex="-1"></a>    <span class="at">axis.text.x =</span> <span class="fu">element_blank</span>(),</span>
+<span id="cb7-46"><a href="#cb7-46" aria-hidden="true" tabindex="-1"></a>    <span class="at">axis.title =</span> <span class="fu">element_blank</span>(),</span>
+<span id="cb7-47"><a href="#cb7-47" aria-hidden="true" tabindex="-1"></a>    <span class="at">panel.grid =</span> <span class="fu">element_blank</span>(),</span>
+<span id="cb7-48"><a href="#cb7-48" aria-hidden="true" tabindex="-1"></a>    <span class="at">panel.spacing.x =</span> <span class="fu">unit</span>(<span class="dv">5</span>, <span class="st">"mm"</span>),</span>
+<span id="cb7-49"><a href="#cb7-49" aria-hidden="true" tabindex="-1"></a>    <span class="at">strip.text.x.bottom =</span> <span class="fu">element_markdown</span>(</span>
+<span id="cb7-50"><a href="#cb7-50" aria-hidden="true" tabindex="-1"></a>      <span class="at">family =</span> <span class="st">"Roboto Condensed"</span>,</span>
+<span id="cb7-51"><a href="#cb7-51" aria-hidden="true" tabindex="-1"></a>      <span class="at">vjust =</span> <span class="dv">1</span>,</span>
+<span id="cb7-52"><a href="#cb7-52" aria-hidden="true" tabindex="-1"></a>      <span class="at">margin =</span> <span class="fu">margin</span>(<span class="at">t =</span> <span class="dv">0</span>))</span>
+<span id="cb7-53"><a href="#cb7-53" aria-hidden="true" tabindex="-1"></a>  )</span></code><button title="Copy to Clipboard" class="code-copy-button"><i class="bi"></i></button></pre></div>
 </details>
 <div class="cell-output-display">
 <div>
